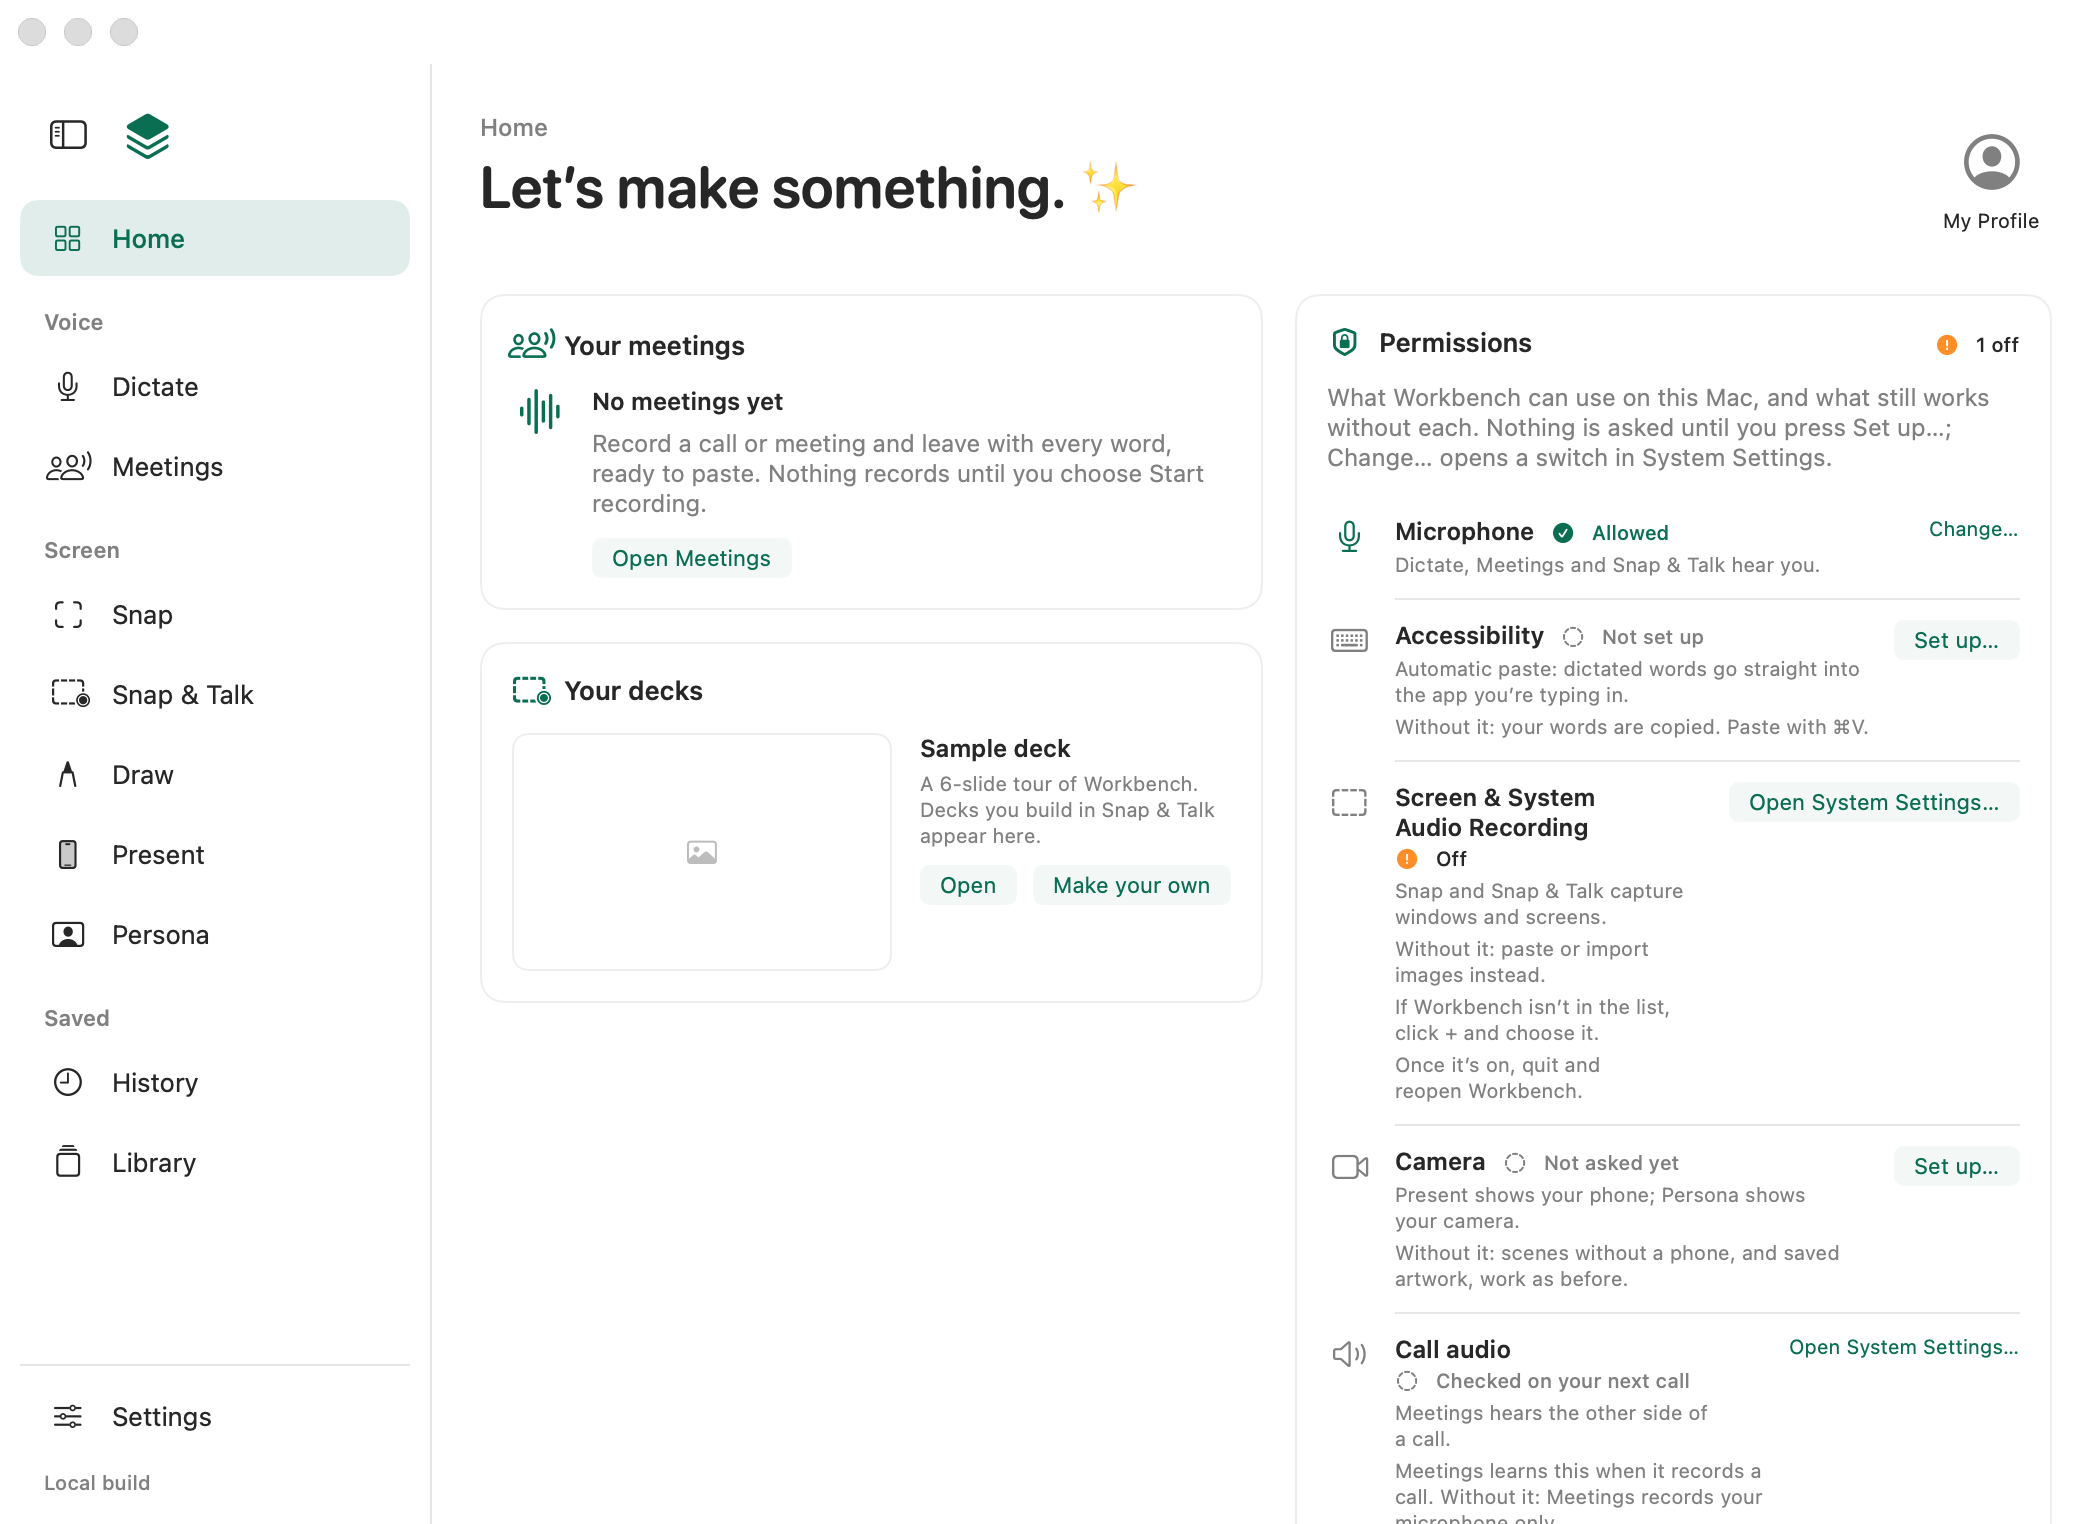
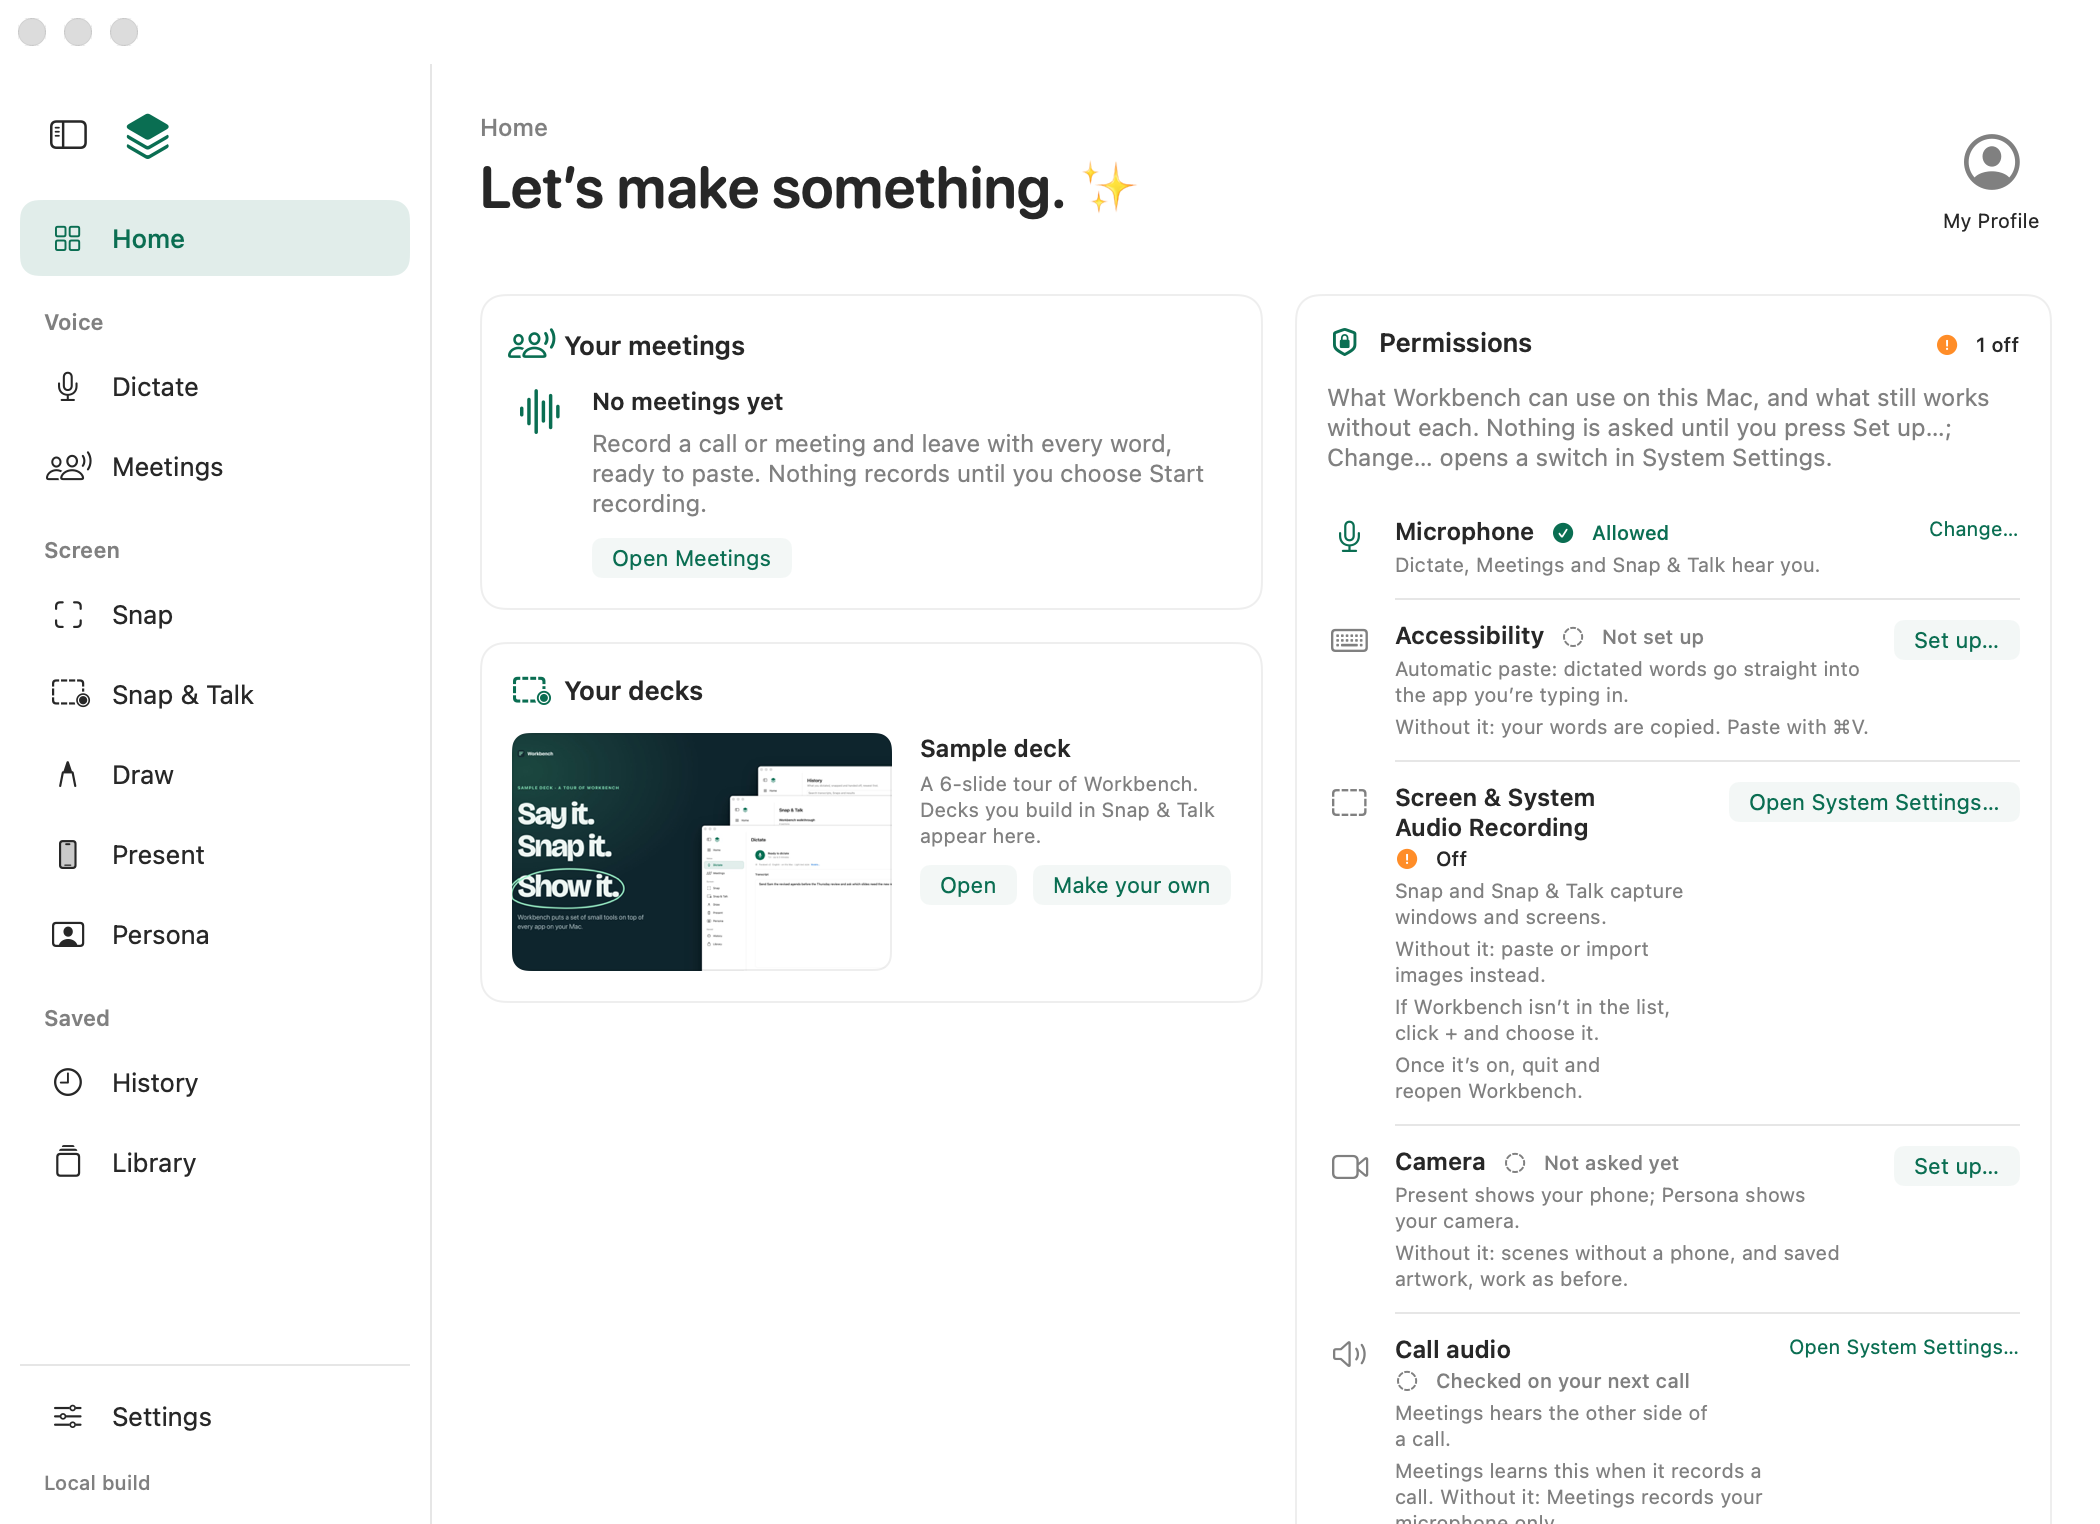
Verification: final renders and results after review
The Home renders are replaced from a run where the sample deck's thumbnail had loaded; the earlier pair showed its placeholder, a second change no code made. The Keyboard page's default size joins the narrow one, before and after. The grep row now names the paths it covers, since this README spells the removed names, and the checks table reports the final head: the door helper asserts, the attention line measured on its own row, and both gallery passes at 0 flags. Refs #15, #76, #335, #336

Changed region(s): [[0.2167, 0.4626, 0.4333, 0.6476]]

diff --git a/docs/verification/2026-10-15-keyboard/README.md b/docs/verification/2026-10-15-keyboard/README.md
@@ -8,7 +8,7 @@ Branch `claude/keyboard-home-panel`, from `main` at edc15df. Refs #15, #76, #335
 
 | # | Change | Renders |
 | --- | --- | --- |
-| 1 | Each door that names a shortcut opens Settings › Keyboard with that shortcut selected and idle: the Dictate keycap selects Dictate, Snap & Talk's Change shortcut… selects Snap & Talk, and Draw's failing-shortcut banner selects the first failing Draw key. The list scrolls the selected row into view when the page appears and when a door reveals it, never on a row click. The keycap's tooltip now reads "Opens Settings › Keyboard with this shortcut selected". | `page-shortcuts-narrow-*`: Snap was selected below the fold on `main` and is now in view. |
+| 1 | Each door that names a shortcut opens Settings › Keyboard with that shortcut selected and idle: the Dictate keycap selects Dictate, Snap & Talk's Change shortcut… selects Snap & Talk, and Draw's failing-shortcut banner selects the first failing Draw key. The list scrolls the selected row into view when the page appears and when a door reveals it, never on a row click. The keycap's tooltip now reads "Opens Settings › Keyboard with this shortcut selected". | `page-shortcuts-default-*` and `page-shortcuts-narrow-*`: Snap was selected below the fold on `main` and is now in view. |
 | 2 | Home's first-dictation guide offers "or choose Dictate in the menu bar" when the Dictate shortcut is off or macOS could not register it, instead of "or press Off in any text field" or a key another app holds. With the shortcut off, Dictate settings' Activation hint says it is off and points at the keycap above it, instead of "Press Off…" or "Hold Off…". | None: every gallery fixture keeps the default shortcut on, so the guide still reads "or press ⌥V in any text field" (visible in the Home renders). |
 | 3 | The clipboard receipt's Show cue is gone from the panel and Home. Review text and the ⌘V hint stay; an unfinished delivery keeps Copy again and Dismiss. The uncalled `revealHUD`, its two checks, the registry entry and the gallery action are removed. | `panel-clipboard-*` |
 | 4 | With speech ready, Home's Current work shows a writing model's download (line, progress, Models…) or its failure (attention symbol, reason, Models…). Cancel and Download again stay in Models. While the first-dictation guide shows over speech that is not ready, the guide's banner keeps the line and Current work stays hidden. | `page-home-state-writing-model-download-*`; new `page-home-state-writing-model-failure-*` |
@@ -23,21 +23,21 @@ At the default window on macOS 15 and later, a row whose name and badge no longe
 | Check | Result | Fails on `main`? |
 | --- | --- | --- |
 | `swift build --product LocalVoice` (debug) | Pass | n/a |
-| `LocalVoice --check-core`, including the new `KeyboardCoachChecks.checkReveal`: after the panel edits Pen, a door to Snap & Talk selects it idle with no suspend; an unknown id changes nothing; a door during recording ends idle with exactly one resume. HomeJourneyChecks adds the shortcut-hint asserts (on, off, failed), the Activation hint while off, and the four writing-model current-work cases. | Pass (HOME_JOURNEY_CHECKS_OK: 121 checks) | Yes. `reveal`, `shortcutHint`, `activationHint` and `writingModelIsCurrentWork` do not exist on `main`, so the checks do not compile there. On `main` the guide renders "or press Off in any text field" for a disabled shortcut. |
+| `LocalVoice --check-core`, including the new `KeyboardCoachChecks.checkReveal`: after the panel edits Pen, a door to Snap & Talk selects it idle with no suspend; an unknown id changes nothing; a door during recording ends idle with exactly one resume; Draw's failure banner names its first failing action, and nothing when none fails. The doors take their row from the same `AppDelegate.keyboardSelection` helpers the check uses. HomeJourneyChecks adds the shortcut-hint asserts (on, off, failed), the Activation hint while off, and the four writing-model current-work cases. | Pass (HOME_JOURNEY_CHECKS_OK: 121 checks) | Yes. `reveal`, `keyboardSelection`, `shortcutHint`, `activationHint` and `writingModelIsCurrentWork` do not exist on `main`, so the checks do not compile there. On `main` the guide renders "or press Off in any text field" for a disabled shortcut. |
 | `LocalVoice --check-feedback` (ClipboardReceiptChecks without the two reveal checks) | Pass (30 checks) | n/a (removal) |
 | `LocalVoice --check-refinement` | Pass | n/a |
-| Every other debug `--check-*` mode the checks phase runs: read-retirement, shortcut-migration, readback, snap-capture, presenter, providers, transcript-handoff, readback-pack, capture-preview, image-workspace, history-library, history-journey, handoff-jobs, subscription-cli, meetings, bug-report and input | Pass | n/a |
-| `grep -rn 'showCue\|Show cue\|revealHUD'` over the repository | No matches | Yes: `main` has 10 |
+| Every other debug `--check-*` mode the checks phase runs: read-retirement (and `scripts/test-read-retirement.py --binary`), shortcut-migration, readback, snap-capture, presenter, providers, transcript-handoff, readback-pack, capture-preview, image-workspace, history-library, history-journey, handoff-jobs, subscription-cli, meetings, bug-report and input, all at the final head | Pass | n/a |
+| `git grep -n -E 'showCue\|Show cue\|revealHUD' -- Sources docs/surfaces.json` (this README names them, so it is left out) | No matches | Yes: `main` has 10, all in those paths |
 | `python3 scripts/check-surfaces.py` (registry hand-edited; Home's second Models… door and the panel's WorkbenchNote rows registered) | Pass, 684 entries | n/a |
 | `python3 scripts/test-check-surfaces.py` | Pass | n/a |
 | `scripts/test.sh harnesses` | Pass | n/a |
-| `LocalVoice --render-surfaces` (full gallery) | 356 renders, 162 entries, 0 flags | See the next five rows |
-| `WORKBENCH_HOME_GALLERY_ONLY=1 LocalVoice --render-surfaces` | 58 renders, 0 flags | See the row for change 7 |
+| `LocalVoice --render-surfaces` (full gallery, final head) | 356 renders, 162 entries, 0 flags | See the next five rows |
+| `WORKBENCH_HOME_GALLERY_ONLY=1 LocalVoice --render-surfaces` (final head) | 58 renders, 159 entries, 0 flags | See the row for change 7 |
 | Gallery check (change 1): after a door reveals Snap, its row frame lies inside the Keyboard list's visible frame, at both window sizes | Pass | Yes. A build with the scroll removed failed: the row was at y 689 below a list that ends at 602. |
 | Gallery check (change 1): the Dictate settings sheet's Shortcut keycap closes the sheet and opens Keyboard on Dictate, idle | Pass | No. The sheet already closed on `main`. This confirms it rather than fixing it. |
 | Gallery check (change 4): Home shows the download row with Models… while speech is ready and the guide shows, then the failure row | Pass | Yes. A build without the row failed with "Home did not show the writing model's download line…". |
 | Gallery check (change 5): the waiting editor shows only Cancel and Turn off, the stopped editor only Change and Turn off, and Turn off moves no more than 8 pt between them | Pass | Yes. `main`'s layout failed: it showed Cancel, Change and Turn off together. |
-| Gallery check (change 6): the denied-microphone panel has no more than a symbol's width (24 pt) of orange | Pass | Yes. `main`'s row failed with 120 pt of orange. |
+| Gallery check (change 6): in the denied-microphone panel, the attention line's own row draws an orange symbol and no more than a symbol's width (24 pt) of orange. Other rows are not measured, so a shortcut label that is orange for its own reason cannot fail it. | Pass. A run with Dictate's and Snap's shortcut labels made orange also passed. | Yes. `main`'s row failed with 120 pt of orange. |
 | Gallery check (change 7): at the minimum window, no permission name needs more height than its frame or has a word wider than its frame, for the gallery's permissions and a work Mac's | Pass | Yes. `main`'s row failed with "Call audio in 26 × 29 pt". |
 
 Each "fails on `main`" gallery result came from a build of this branch with only that change's view reverted to `main`'s layout. The view was instrumented to report the same frames, so the new assertion had something to read.
@@ -47,7 +47,7 @@ Not run: the `package-tests` and `stage` phases, because no test target depends 
 ## Not verified natively
 
 - The real click path of each door in the installed app. Nobody has clicked these in the installed app: the Dictate settings keycap, Snap & Talk's Change shortcut… (sheet and failure row), and Draw's failing-shortcut banner, each landing on Keyboard with the named row selected and in view. The model checks and gallery cover the mapping and the scroll.
-- Draw's banner door with a real registration failure. The gallery has no StageKit failure fixture, so `stage.<id>` selection rests on code review of `shortcutDescriptors`.
+- Draw's banner door with a real registration failure. `--check-core` covers which row a failure set names, but the gallery has no StageKit failure fixture, so the banner's click reaching that helper rests on code review.
 - A real Ollama download or failure reaching Home. The gallery presents both states synthetically through the same manager properties.
 - The shortcut editor's error line (change 6) has no gallery fixture. It rests on code review.
 - VoiceOver reading of the new Home row, the panel note and the wrapped permission names.
